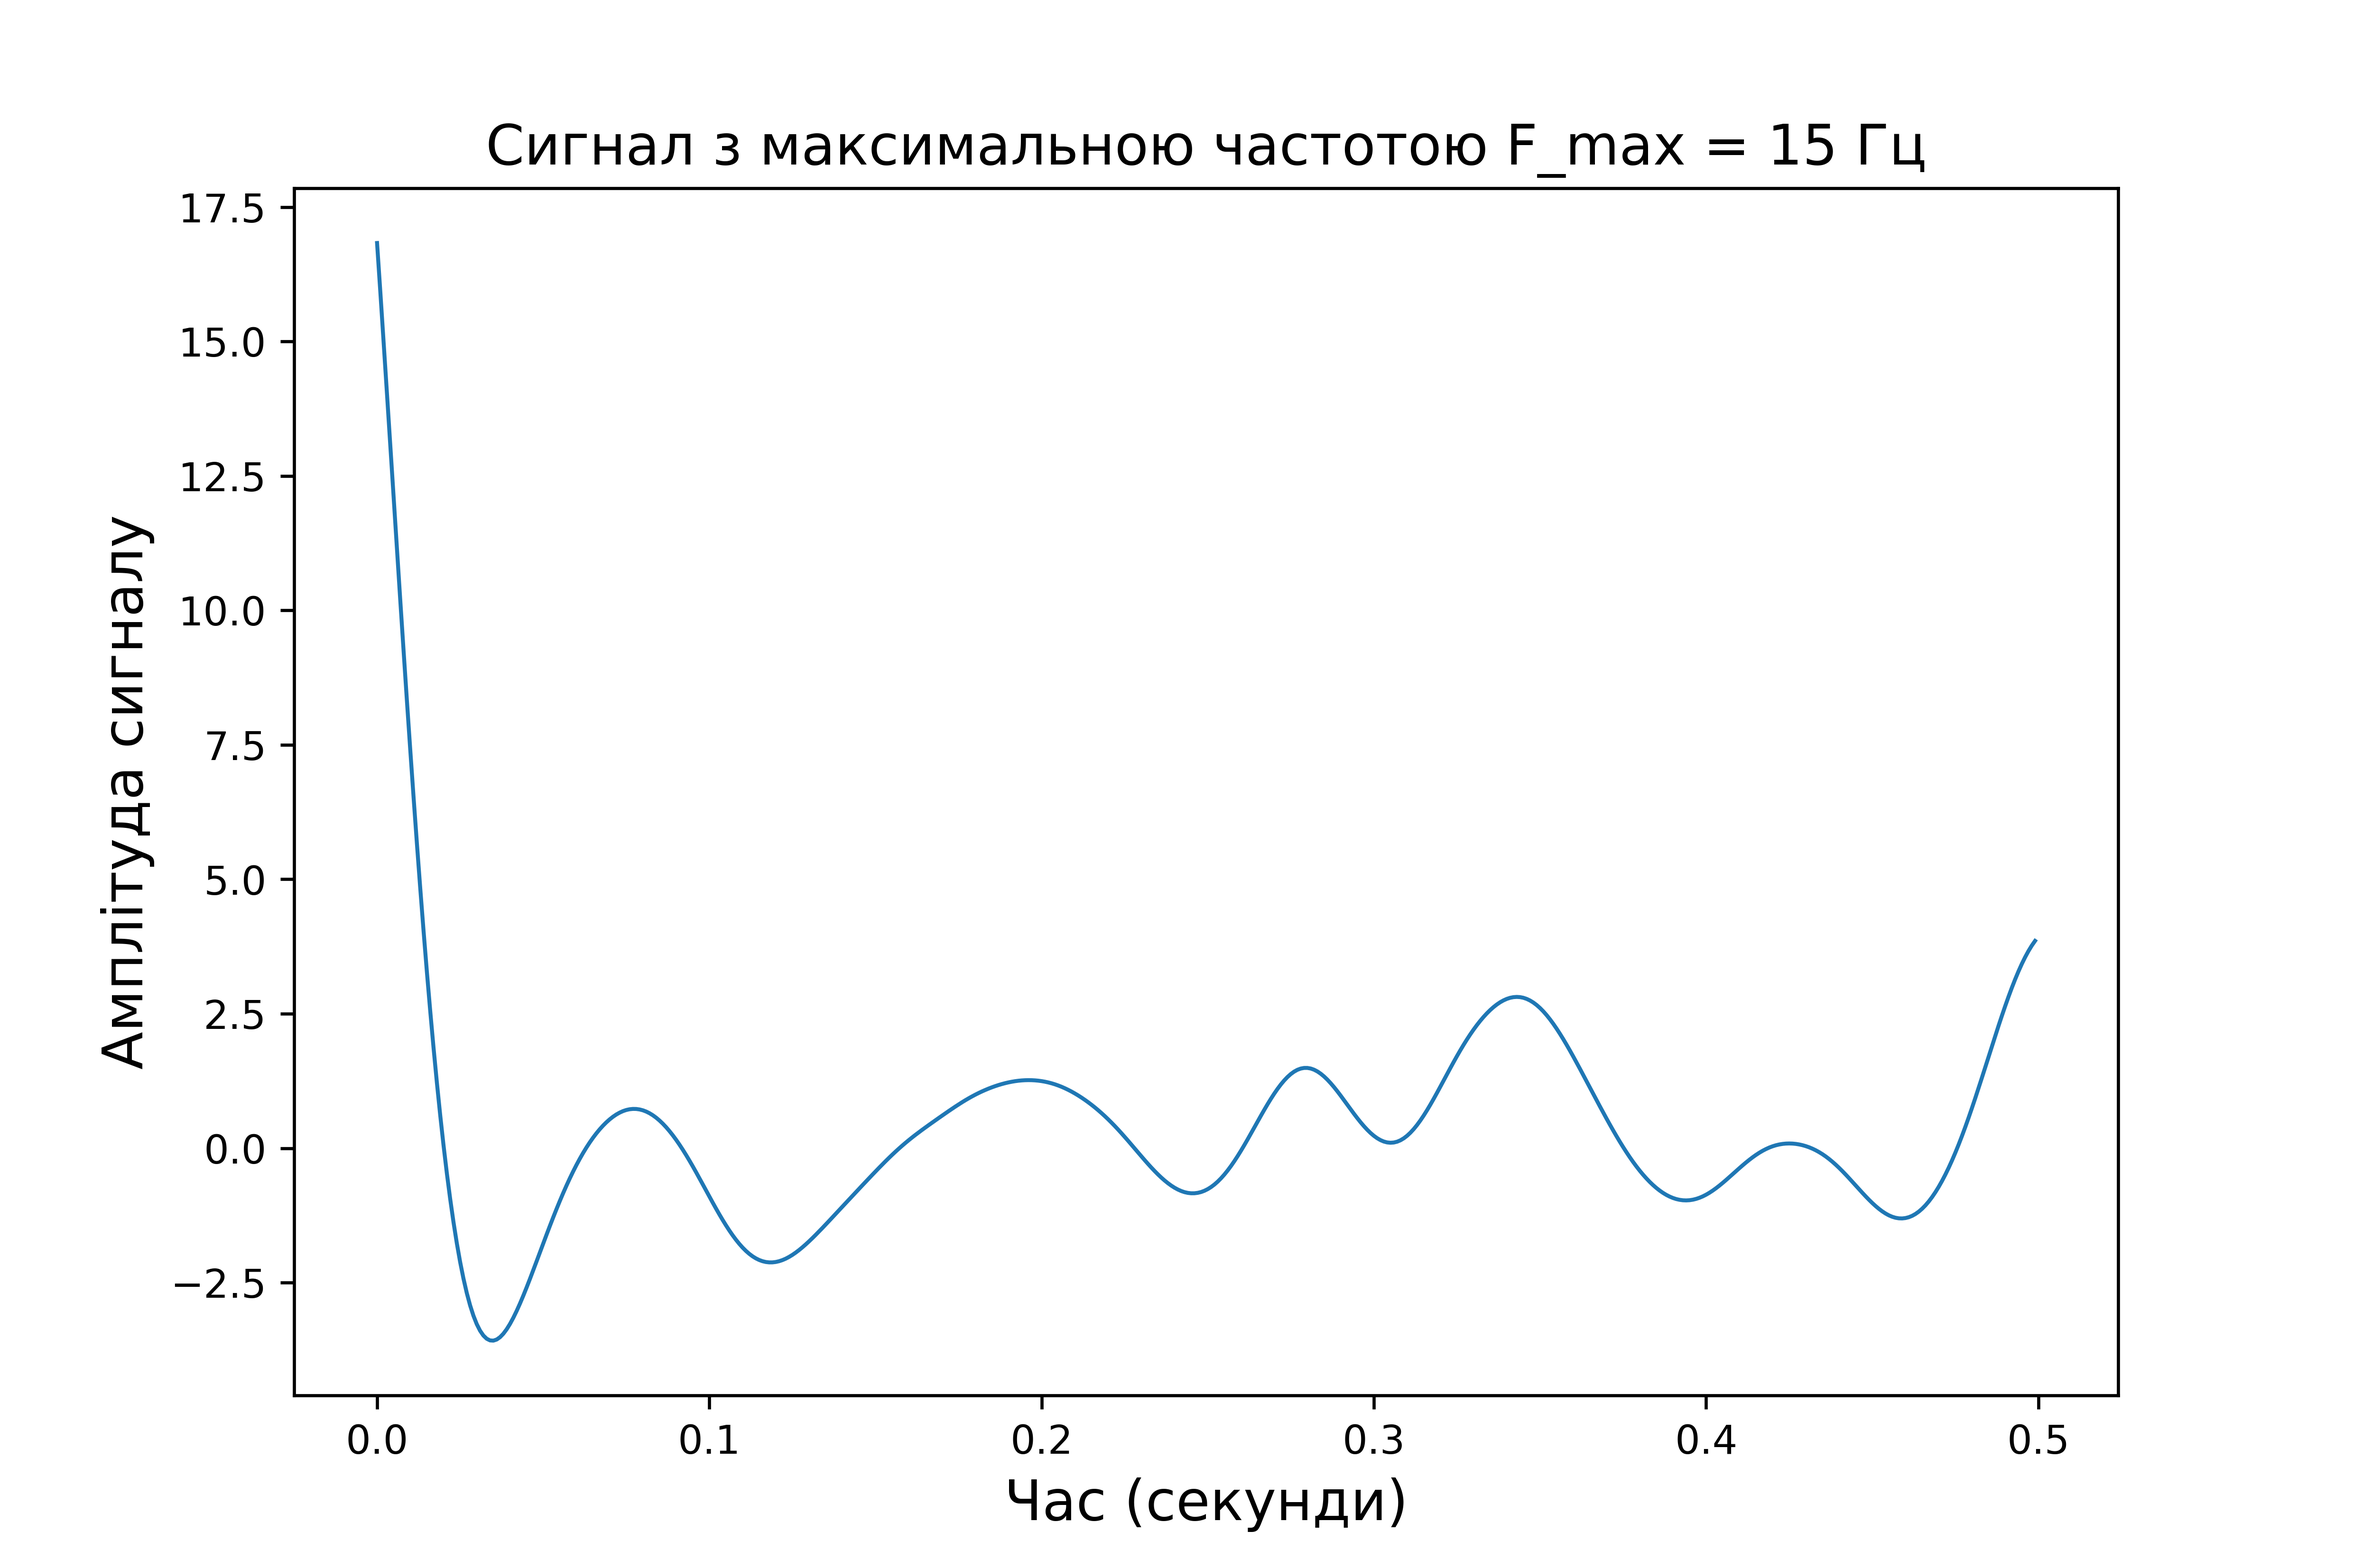
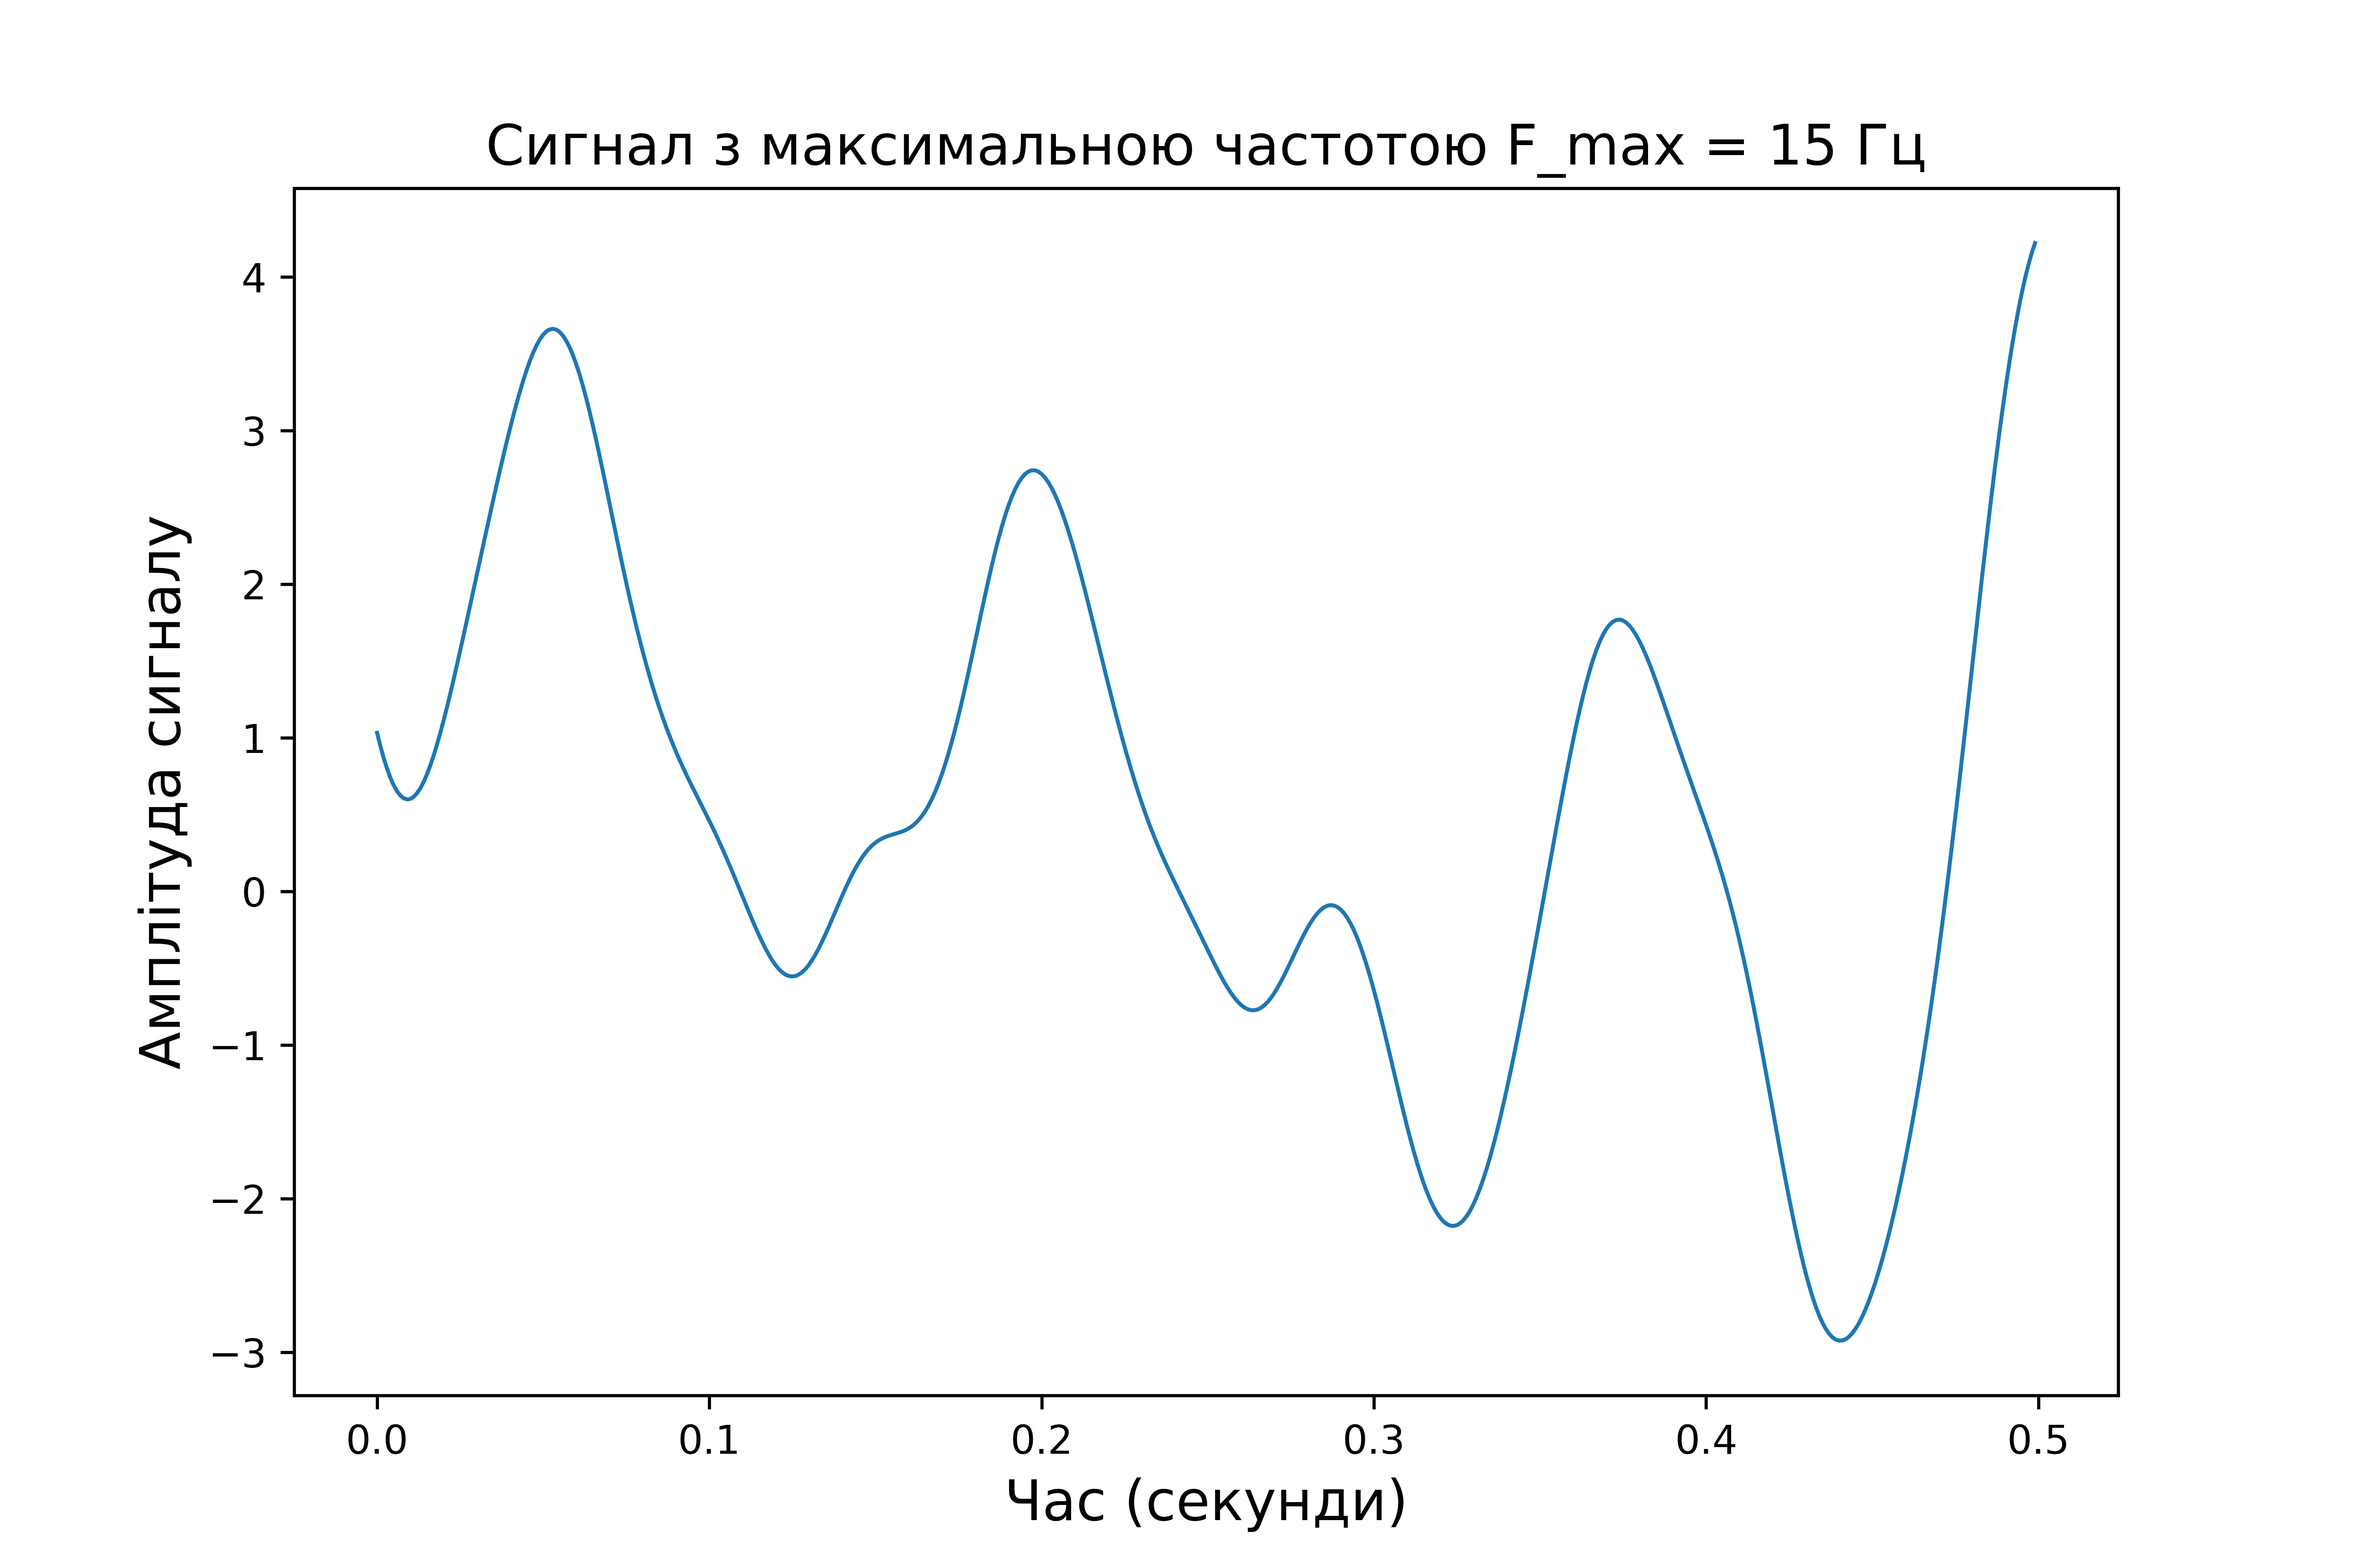
Signal processing, 2

diff --git a/SignalProcessing/SignalProcessing.py b/SignalProcessing/SignalProcessing.py
@@ -1,60 +1,125 @@
 import numpy as np
 import matplotlib.pyplot as plt
-from scipy import signal, fft
+from scipy.fft import fft, fftshift, fftfreq
+from scipy.signal import butter, sosfiltfilt
 import os
 
-# Вхідні параметри
+# Дано
 n = 500
 Fs = 1000
 F_max = 15
+F_filter = 22
 
+Dt_values = [2, 4, 8, 16]
 
-# Генерація випадкового сигналу
-random_signal = np.random.normal(0, 10, n)
+# Формування часу
+t = np.arange(n) / Fs
 
-# Формування осі часу
-time = np.arange(n) / Fs
+# Генераія випадкового сигналу
+signal = np.random.randn(n)
 
-#  Розрахунок ФНЧ
-w = F_max / (Fs / 2)
+# Фільтрація для обмеження F_max
+w0 = F_max / (Fs / 2)
+sos0 = butter(3, w0, 'low', output='sos')
+signal = sosfiltfilt(sos0, signal)
 
-sos = signal.butter(3, w, btype='low', output='sos')
+# Списки для збереження
+discrete_signals = []
+discrete_spectrums = []
+restored_signals = []
+variances = []
+snr_values = []
 
-# Фільтрація сигналу
-filtered_signal = signal.sosfiltfilt(sos, random_signal)
+# Основний цикл
+for Dt in Dt_values:
 
-# Функція для побудови графіку
-def plot_graph(x, y, title, xlabel, ylabel):
-    fig, ax = plt.subplots(figsize=(21/2.54, 14/2.54))
-    ax.plot(x, y, linewidth=1)
-    ax.set_xlabel(xlabel, fontsize=14)
-    ax.set_ylabel(ylabel, fontsize=14)
-    ax.set_title(title, fontsize=14)
-    fig.savefig("figures/" + title + ".png", dpi=600)
+# Дискретизація
+    discrete_signal = np.zeros(n)
+
+    for i in range(0, round(n / Dt)):
+        discrete_signal[i * Dt] = signal[i * Dt]
+
+    discrete_signals += [list(discrete_signal)]
+
+# Розрахунок спектру
+    spectrum = np.abs(fftshift(fft(discrete_signal)))
+    discrete_spectrums += [list(spectrum)]
+
+# Відновлення через ФНЧ
+    w = F_filter / (Fs / 2)
+    sos = butter(3, w, 'low', output='sos')
+    restored_signal = sosfiltfilt(sos, discrete_signal)
+
+    restored_signals += [list(restored_signal)]
+
+# Розрахунок похибки
+    E1 = restored_signal - signal
+
+    var_signal = np.var(signal)
+    var_error = np.var(E1)
+
+    variances += [var_error]
+    snr_values += [var_signal / var_error]
+
+# Частотна вісь
+freq = fftshift(fftfreq(n, d=1/Fs))
+
+# Функція побудови
+def plot_2x2(x, y, title, x_label, y_label):
+
+    fig, ax = plt.subplots(2, 2, figsize=(21/2.54, 14/2.54))
+
+    line_width = 1
+    font_size = 14
+
+    s = 0
+    for i in range(2):
+        for j in range(2):
+            ax[i][j].plot(x, y[s], linewidth=line_width)
+            ax[i][j].set_title(f'Dt = {Dt_values[s]}', fontsize=font_size)
+            s += 1
+
+    fig.supxlabel(x_label, fontsize=font_size)
+    fig.supylabel(y_label, fontsize=font_size)
+    fig.suptitle(title, fontsize=font_size)
+
+    os.makedirs("figures", exist_ok=True)
+    fig.savefig('./figures/' + title + '.png', dpi=600)
     plt.close()
 
-# Побдова сигналу
-plot_graph(
-    time,
-    filtered_signal,
-    "Сигнал з максимальною частотою F_max = 15 Гц",
-    "Час (секунди)",
-    "Амплітуда сигналу"
-)
+# Побудова графіків
+# Дискретизовані сигнали
+plot_2x2(t, discrete_signals,
+         "Дискретизовані сигнали",
+         "Час (с)",
+         "Амплітуда")
 
-#  Розрахунок спектру
-spectrum = fft.fft(filtered_signal)
-spectrum_shifted = np.abs(fft.fftshift(spectrum))
+# Спектри
+plot_2x2(freq, discrete_spectrums,
+         "Дискретні спектри сигналів",
+         "Частота (Гц)",
+         "Амплітуда спектру")
 
-freqs = fft.fftfreq(n, 1/Fs)
-freqs_shifted = fft.fftshift(freqs)
+# Відновлені сигнали
+plot_2x2(t, restored_signals,
+         "Відновлені сигнали",
+         "Час (с)",
+         "Амплітуда")
 
-#  Побудова спектру
-plot_graph(
-    freqs_shifted,
-    spectrum_shifted,
-    "Спектр сигналу з максимальною частотою F_max = 15 Гц",
-    "Частота (Гц)",
-    "Амплітуда спектру"
-)
+# Графік дисперсії
+plt.figure(figsize=(21/2.54, 14/2.54))
+plt.plot(Dt_values, variances, linewidth=1)
+plt.xlabel("Dt", fontsize=14)
+plt.ylabel("Дисперсія", fontsize=14)
+plt.title("Дисперсія vs Dt", fontsize=14)
+plt.savefig('./figures/Дисперсія_vs_Dt.png', dpi=600)
+plt.close()
 
+# Графік ССШ
+plt.figure(figsize=(21/2.54, 14/2.54))
+plt.plot(Dt_values, snr_values, linewidth=1)
+plt.xlabel("Dt", fontsize=14)
+plt.ylabel("ССШ", fontsize=14)
+plt.title("ССШ vs Dt", fontsize=14)
+plt.savefig('./figures/ССШ_vs_Dt.png', dpi=600)
+plt.close()
